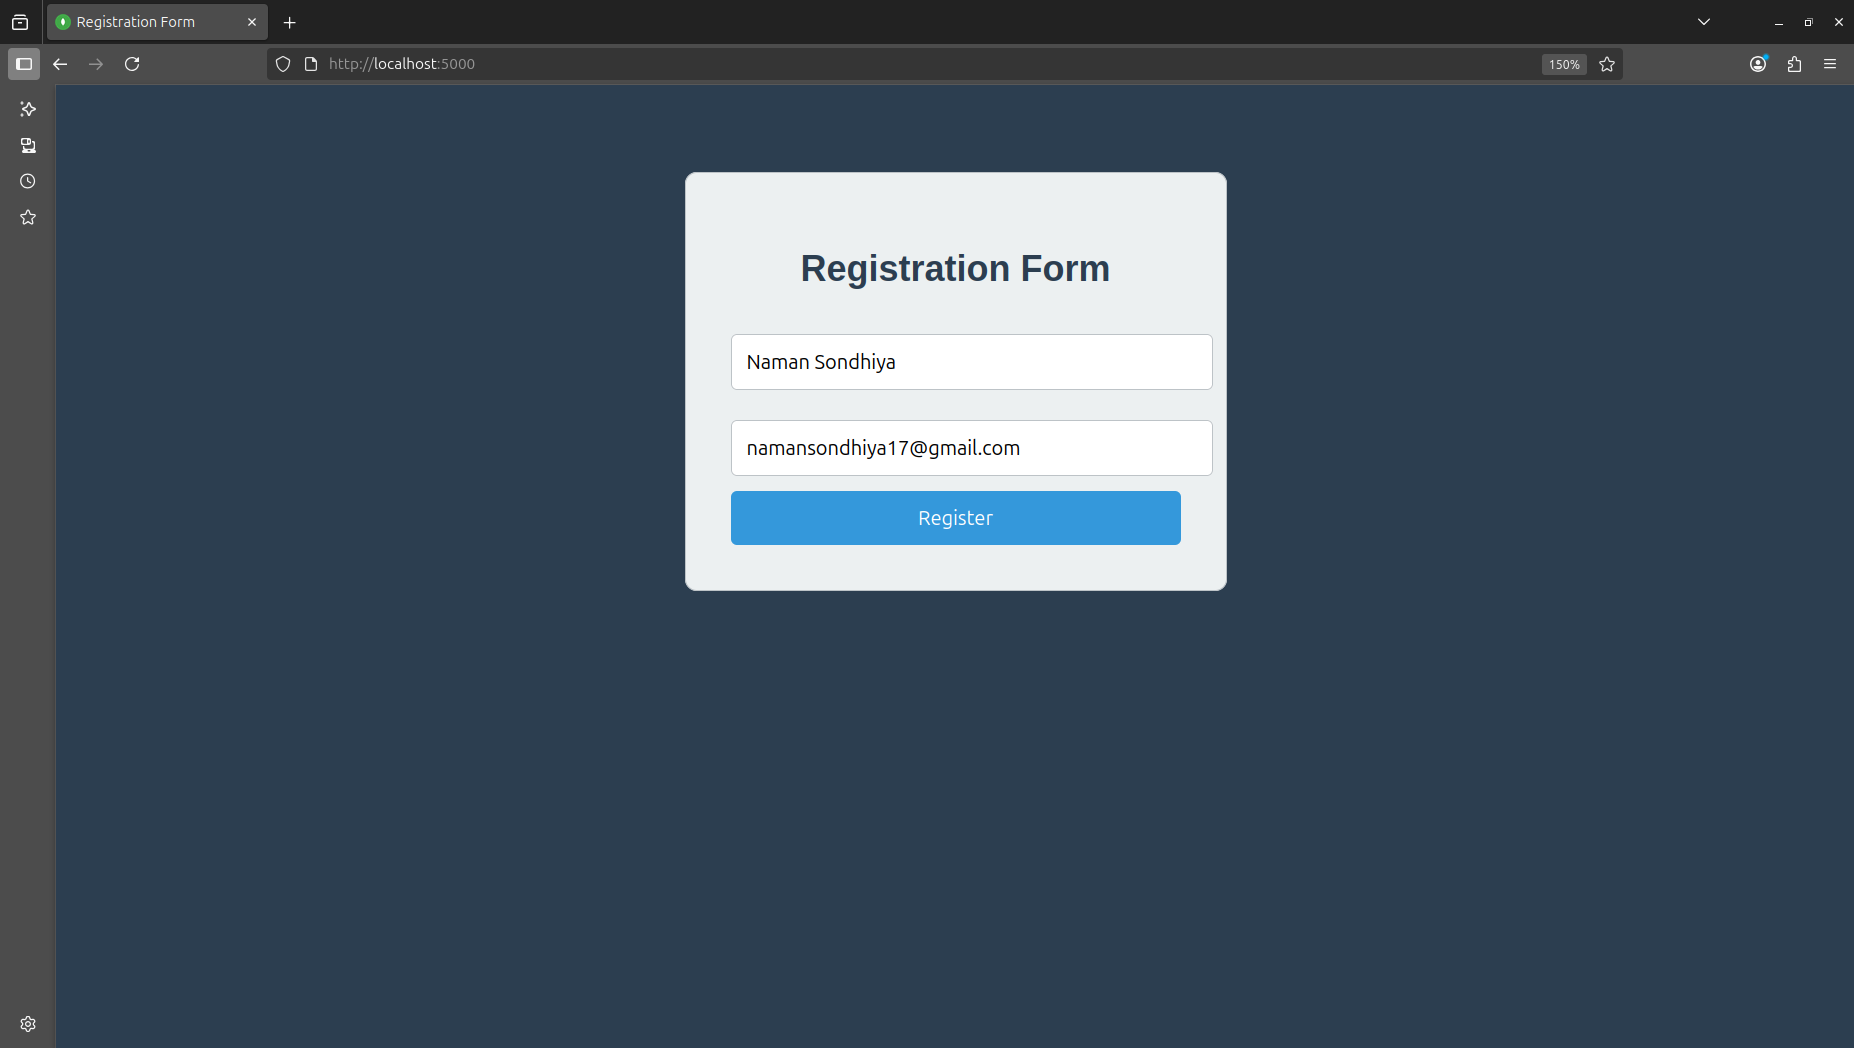
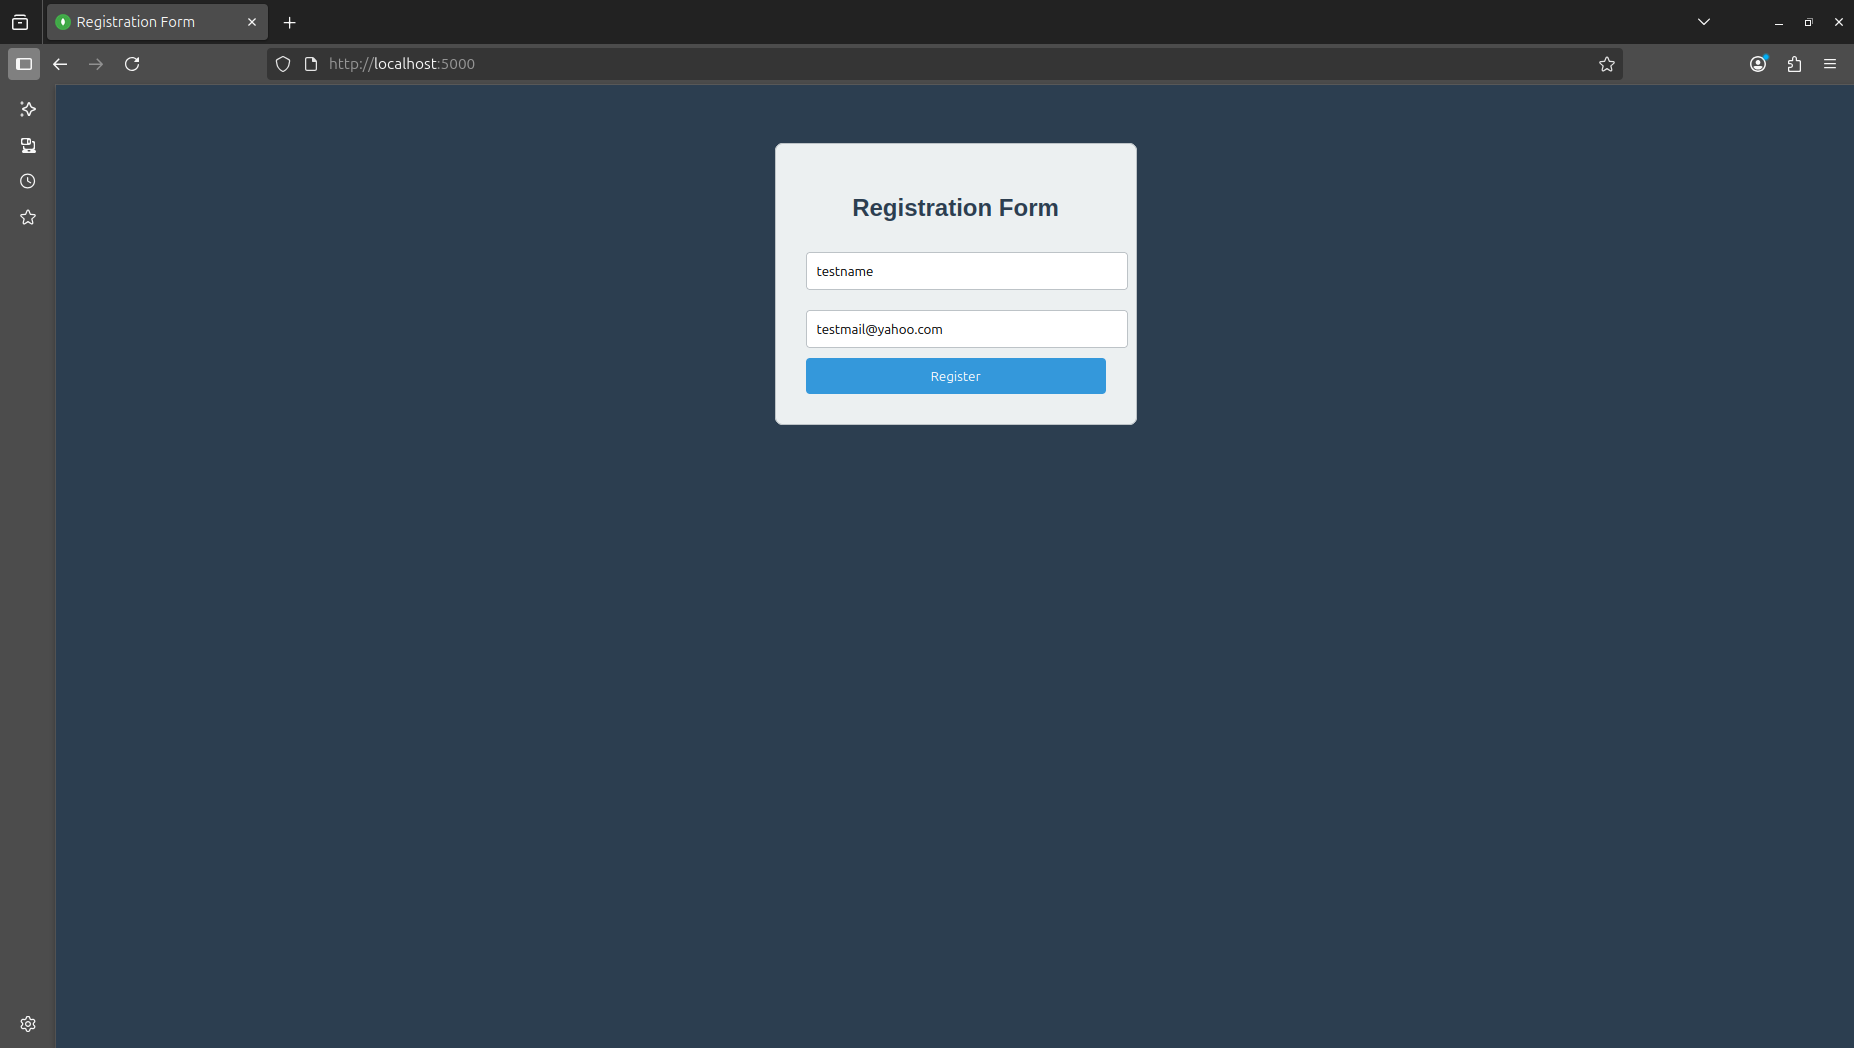
Add img

Changed region(s): [[0.3689, 0.1221, 0.6764, 0.5802], [0.8301, 0.0305, 0.8608, 0.0916]]

diff --git a/README.md b/README.md
@@ -155,10 +155,6 @@ See [DEPLOYMENT.md](DEPLOYMENT.md) for detailed instructions.
 ![Port Forward](screenshots/port-forward.png)
 *kubectl port-forward command to access frontend*
 
-#### 6. Application Access
-![Application Running](screenshots/app-running.png)
-*Frontend accessible at localhost:5000 through port forwarding*
-
 ### Application Screenshots
 
 #### Registration Form
